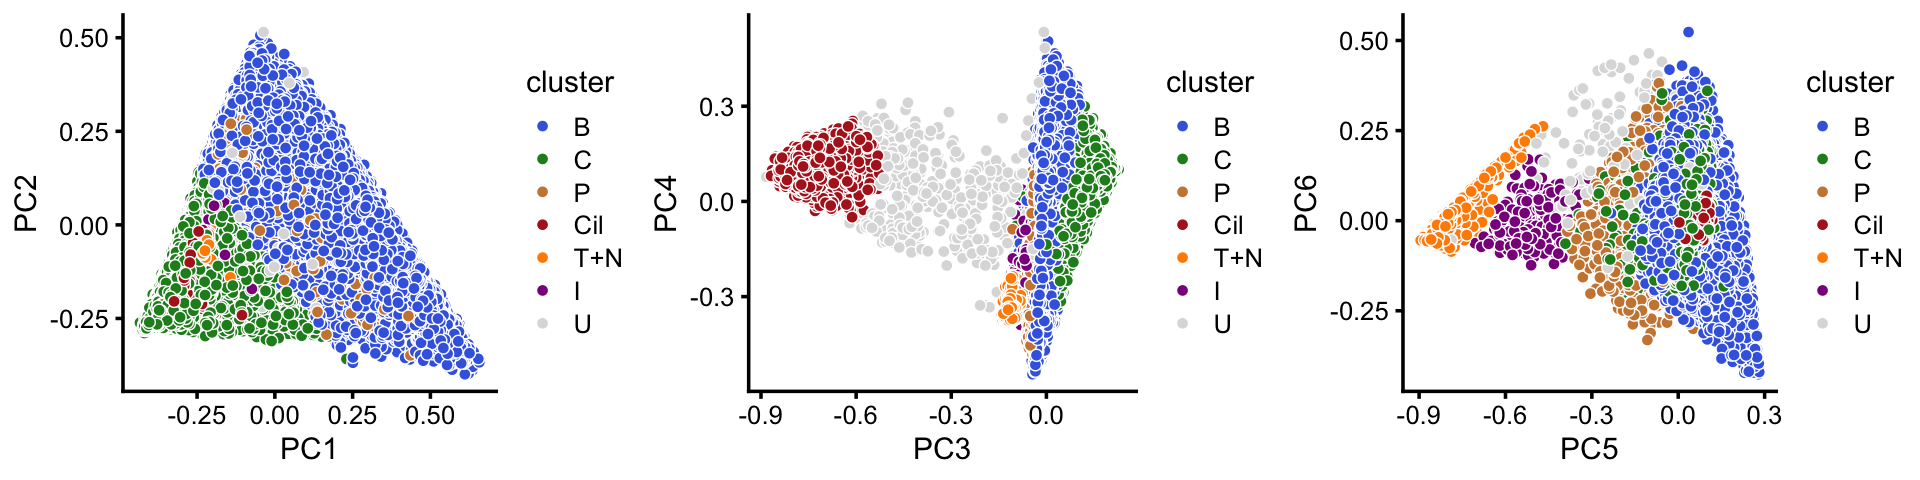
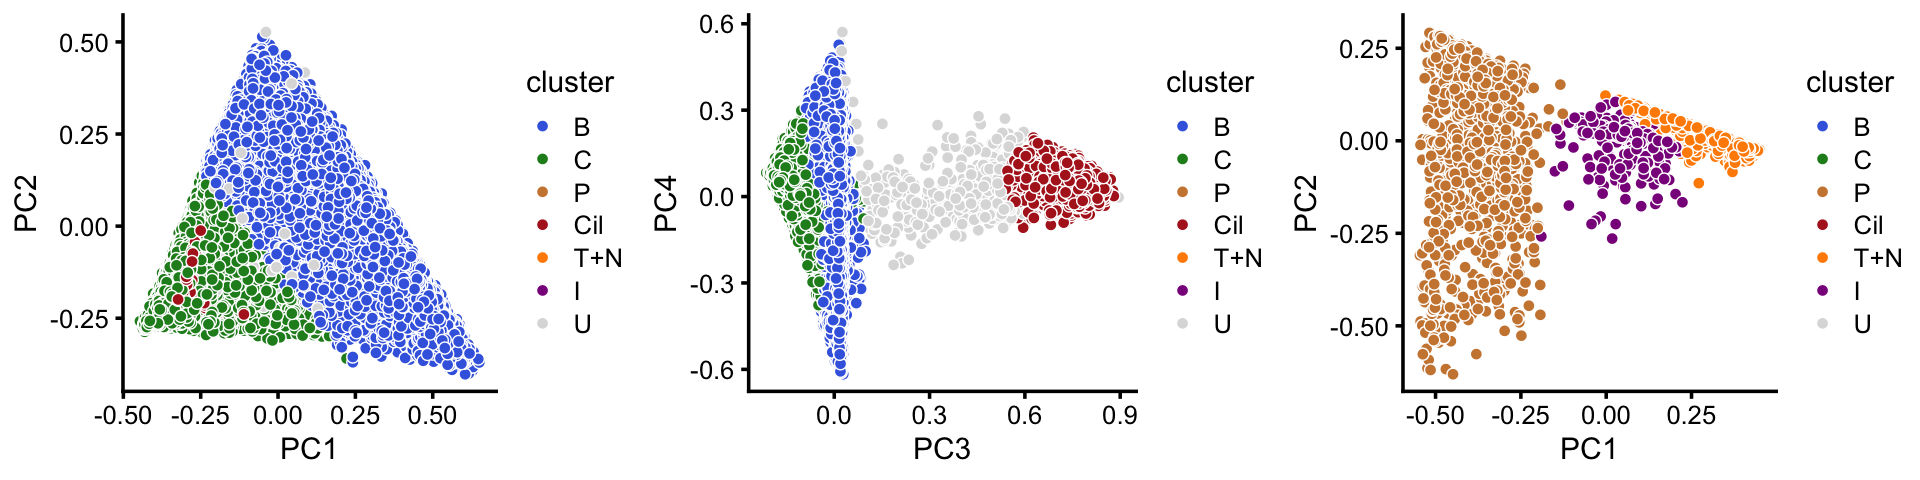
Revised PCA plots showing clustering in clusters_pulseseq analysis.

diff --git a/docs/clusters_pulseseq.html b/docs/clusters_pulseseq.html
@@ -323,7 +323,7 @@ $(document).ready(function () {
 <div class="tab-content">
 <div id="summary" class="tab-pane fade in active">
 <p>
-<strong>Last updated:</strong> 2020-10-11
+<strong>Last updated:</strong> 2020-10-16
 </p>
 <p>
 <strong>Checks:</strong> <span class="glyphicon glyphicon-ok text-success" aria-hidden="true"></span> 7 <span class="glyphicon glyphicon-exclamation-sign text-danger" aria-hidden="true"></span> 0
@@ -414,16 +414,16 @@ This reproducible <a href="http://rmarkdown.rstudio.com">R Markdown</a> analysis
 <div class="panel panel-default">
 <div class="panel-heading">
 <p class="panel-title">
-<a data-toggle="collapse" data-parent="#workflowr-checks" href="#strongRepositoryversionstrongahrefhttpsgithubcomstephenslabsinglecelltopicstreeef0fa237f309719d6ead9d8cc71f9f2f39dc6a95targetblankef0fa23a"> <span class="glyphicon glyphicon-ok text-success" aria-hidden="true"></span> <strong>Repository version:</strong> <a href="https://github.com/stephenslab/single-cell-topics/tree/ef0fa237f309719d6ead9d8cc71f9f2f39dc6a95" target="_blank">ef0fa23</a> </a>
+<a data-toggle="collapse" data-parent="#workflowr-checks" href="#strongRepositoryversionstrongahrefhttpsgithubcomstephenslabsinglecelltopicstreec0fce732f624a23e1980cc9e34f2d1ffe827a724targetblankc0fce73a"> <span class="glyphicon glyphicon-ok text-success" aria-hidden="true"></span> <strong>Repository version:</strong> <a href="https://github.com/stephenslab/single-cell-topics/tree/c0fce732f624a23e1980cc9e34f2d1ffe827a724" target="_blank">c0fce73</a> </a>
 </p>
 </div>
[2 lines of base64/hex data omitted]
 <div class="panel-body">
 <p>
 Great! You are using Git for version control. Tracking code development and connecting the code version to the results is critical for reproducibility.
 </p>
 <p>
-The results in this page were generated with repository version <a href="https://github.com/stephenslab/single-cell-topics/tree/ef0fa237f309719d6ead9d8cc71f9f2f39dc6a95" target="_blank">ef0fa23</a>. See the <em>Past versions</em> tab to see a history of the changes made to the R Markdown and HTML files.
+The results in this page were generated with repository version <a href="https://github.com/stephenslab/single-cell-topics/tree/c0fce732f624a23e1980cc9e34f2d1ffe827a724" target="_blank">c0fce73</a>. See the <em>Past versions</em> tab to see a history of the changes made to the R Markdown and HTML files.
 </p>
 <p>
 Note that you need to be careful to ensure that all relevant files for the analysis have been committed to Git prior to generating the results (you can use <code>wflow_publish</code> or <code>wflow_git_commit</code>). workflowr only checks the R Markdown file, but you know if there are other scripts or data files that it depends on. Below is the status of the Git repository when the results were generated:
@@ -445,10 +445,9 @@ Ignored files:
     Ignored:    output/pulseseq/fits-pulseseq.RData
     Ignored:    output/pulseseq/rds/
 
-Untracked files:
-    Untracked:  analysis/clustering-pulseseq.rds
-
 Unstaged changes:
+    Modified:   analysis/clusters_droplet.Rmd
+    Modified:   analysis/diff_count_droplet.Rmd
     Modified:   analysis/plots_tracheal_epithelium.Rmd
 
 </code></pre>
@@ -488,6 +487,40 @@ Message
 </tr>
 </thead>
 <tbody>
+<tr>
+<td>
+Rmd
+</td>
+<td>
+<a href="https://github.com/stephenslab/single-cell-topics/blob/c0fce732f624a23e1980cc9e34f2d1ffe827a724/analysis/clusters_pulseseq.Rmd" target="_blank">c0fce73</a>
+</td>
+<td>
+Peter Carbonetto
+</td>
+<td>
+2020-10-16
+</td>
+<td>
+workflowr::wflow_publish(“clusters_pulseseq.Rmd”)
+</td>
+</tr>
+<tr>
+<td>
+html
+</td>
+<td>
+<a href="https://rawcdn.githack.com/stephenslab/single-cell-topics/ad0c23b8eecf7dcc4aa67d2ea2d53509e9d916d7/docs/clusters_pulseseq.html" target="_blank">ad0c23b</a>
+</td>
+<td>
+Peter Carbonetto
+</td>
+<td>
+2020-10-11
+</td>
+<td>
+Added comparison of total variational distance among clusters and
+</td>
+</tr>
 <tr>
 <td>
 Rmd
@@ -1680,8 +1713,10 @@ Peter Carbonetto
 </table>
 </div>
 </div>
-<p>In summary, we have subdivided the pulse-seq data into 7 subsets, which includes a background cluster (U).</p>
+<p>In summary, we have subdivided the pulse-seq data into 7 subsets, which includes a background cluster (U). The substructure is more clear when we plot PCs separately for the abundant and rare cell-types.</p>
 <pre class="r"><code>samples$cluster &lt;- factor(x,c(&quot;B&quot;,&quot;C&quot;,&quot;P&quot;,&quot;Cil&quot;,&quot;T+N&quot;,&quot;I&quot;,&quot;U&quot;))
+abundant        &lt;- c(&quot;B&quot;,&quot;C&quot;,&quot;Cil&quot;,&quot;U&quot;)
+rare            &lt;- c(&quot;T+N&quot;,&quot;I&quot;,&quot;P&quot;)
 cluster_colors  &lt;- c(&quot;royalblue&quot;,   # B
                      &quot;forestgreen&quot;, # C
                      &quot;peru&quot;,        # P
@@ -1689,14 +1724,18 @@ cluster_colors  &lt;- c(&quot;royalblue&quot;,   # B
                      &quot;darkorange&quot;,  # T+N
                      &quot;darkmagenta&quot;, # I
                      &quot;gainsboro&quot;)   # U
-p20 &lt;- pca_plot(poisson2multinom(fit),pcs = 1:2,fill = samples$cluster) +
-       scale_fill_manual(values = cluster_colors) +
+rows1 &lt;- which(is.element(samples$cluster,abundant))
+rows2 &lt;- which(is.element(samples$cluster,rare))
+fit1  &lt;- select(poisson2multinom(fit),loadings = rows1)
+fit2  &lt;- select(poisson2multinom(fit),loadings = rows2)
+p20 &lt;- pca_plot(fit1,pcs = 1:2,fill = samples[rows1,&quot;cluster&quot;]) +
+       scale_fill_manual(values = cluster_colors,drop = FALSE) +
        labs(fill = &quot;cluster&quot;)
-p21 &lt;- pca_plot(poisson2multinom(fit),pcs = 3:4,fill = samples$cluster) +
-       scale_fill_manual(values = cluster_colors) +
+p21 &lt;- pca_plot(fit1,pcs = 3:4,fill = samples[rows1,&quot;cluster&quot;]) +
+       scale_fill_manual(values = cluster_colors,drop = FALSE) +
        labs(fill = &quot;cluster&quot;)
-p22 &lt;- pca_plot(poisson2multinom(fit),pcs = 5:6,fill = samples$cluster) +
-       scale_fill_manual(values = cluster_colors) +
+p22 &lt;- pca_plot(fit2,pcs = 1:2,fill = samples[rows2,&quot;cluster&quot;]) +
+       scale_fill_manual(values = cluster_colors,drop = FALSE) +
        labs(fill = &quot;cluster&quot;)
 plot_grid(p20,p21,p22,nrow = 1)</code></pre>
 <p><img src="figure/clusters_pulseseq.Rmd/clustering-10-1.png" width="960" style="display: block; margin: auto;" /></p>
@@ -1896,6 +1935,43 @@ p23 &lt;- ggplot(pdat,aes(x = method,y = d)) +
   theme_cowplot(font_size = 9)
 print(p23)</code></pre>
 <p><img src="figure/clusters_pulseseq.Rmd/clustering-13-1.png" width="300" style="display: block; margin: auto;" /></p>
+<p>
+<button type="button" class="btn btn-default btn-xs btn-workflowr btn-workflowr-fig" data-toggle="collapse" data-target="#fig-clustering-13-1">
+Past versions of clustering-13-1.png
+</button>
+</p>
+<div id="fig-clustering-13-1" class="collapse">
+<div class="table-responsive">
+<table class="table table-condensed table-hover">
+<thead>
+<tr>
+<th>
+Version
+</th>
+<th>
+Author
+</th>
+<th>
+Date
+</th>
+</tr>
+</thead>
+<tbody>
+<tr>
+<td>
+<a href="https://github.com/stephenslab/single-cell-topics/blob/ad0c23b8eecf7dcc4aa67d2ea2d53509e9d916d7/docs/figure/clusters_pulseseq.Rmd/clustering-13-1.png" target="_blank">ad0c23b</a>
+</td>
+<td>
+Peter Carbonetto
+</td>
+<td>
+2020-10-11
+</td>
+</tr>
+</tbody>
+</table>
+</div>
+</div>
 <p>When we directly compare differentiation among the 6 clusters that are comparable to the Montoro <em>et al</em> clusters, we observe that the clusters identified here for the most part show stronger differentiation in gene expression:</p>
 <pre class="r"><code>fit_montoro &lt;- merge_topics(poisson2multinom(fit_montoro),
                             c(&quot;tuft&quot;,&quot;neuroendocrine&quot;))
@@ -1913,6 +1989,43 @@ p24 &lt;- ggplot(pdat,aes(x = montoro,y = clusters)) +
   theme_cowplot(font_size = 9)
 print(p24)</code></pre>
 <p><img src="figure/clusters_pulseseq.Rmd/clustering-14-1.png" width="300" style="display: block; margin: auto;" /></p>
+<p>
+<button type="button" class="btn btn-default btn-xs btn-workflowr btn-workflowr-fig" data-toggle="collapse" data-target="#fig-clustering-14-1">
+Past versions of clustering-14-1.png
+</button>
+</p>
+<div id="fig-clustering-14-1" class="collapse">
+<div class="table-responsive">
+<table class="table table-condensed table-hover">
+<thead>
+<tr>
+<th>
+Version
+</th>
+<th>
+Author
+</th>
+<th>
+Date
+</th>
+</tr>
+</thead>
+<tbody>
+<tr>
+<td>
+<a href="https://github.com/stephenslab/single-cell-topics/blob/ad0c23b8eecf7dcc4aa67d2ea2d53509e9d916d7/docs/figure/clusters_pulseseq.Rmd/clustering-14-1.png" target="_blank">ad0c23b</a>
+</td>
+<td>
+Peter Carbonetto
+</td>
+<td>
+2020-10-11
+</td>
+</tr>
+</tbody>
+</table>
+</div>
+</div>
 </div>
 <div id="structure-plot" class="section level2">
 <h2>Structure plot</h2>
@@ -2232,7 +2345,7 @@ Peter Carbonetto
 # [1] stats     graphics  grDevices utils     datasets  methods   base     
 # 
 # other attached packages:
-# [1] cowplot_1.0.0      ggplot2_3.3.0      fastTopics_0.3-179 dplyr_0.8.3       
+# [1] cowplot_1.0.0      ggplot2_3.3.0      fastTopics_0.3-183 dplyr_0.8.3       
 # [5] Matrix_1.2-18     
 # 
 # loaded via a namespace (and not attached):
